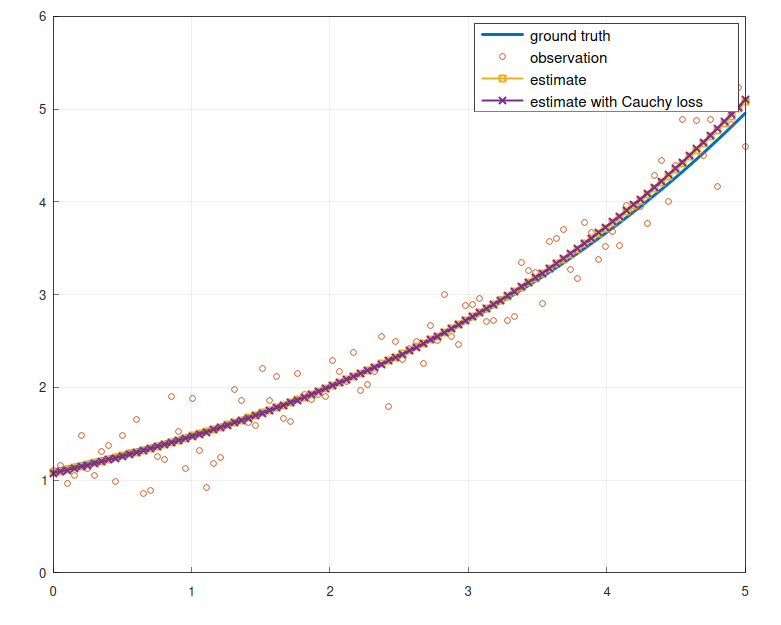
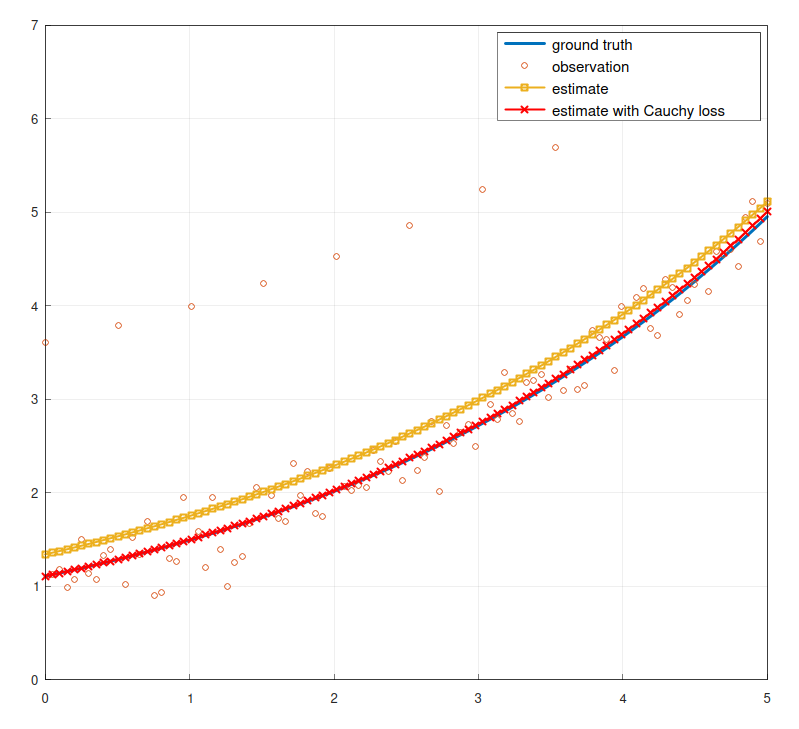
adding outliers to ceres observation

diff --git a/NonLinearOpt/Ceres/ceres_curve_fitting.cpp b/NonLinearOpt/Ceres/ceres_curve_fitting.cpp
@@ -64,9 +64,14 @@ private:
 
 // The real function we're trying to approximate
 void evaluateObservation(const double &x, double &gt_sample,
-                         double &observation_sample) {
+                         double &observation_sample, const int &idx) {
   static cv::RNG rand_gen; // random number generator
-  double noise = rand_gen.gaussian(W_SIGMA * W_SIGMA);
+  double noise;
+  if (idx % 10 == 0) {
+    noise = 2.5; // to create some outliers
+  } else {
+    noise = rand_gen.gaussian(W_SIGMA * W_SIGMA);
+  }
   gt_sample = cv::exp(M * x + C);
   observation_sample = gt_sample + noise;
 }
@@ -95,7 +100,7 @@ int main() {
   for (double x = SAMPLE_INTERVAL.first; x <= SAMPLE_INTERVAL.second;
        x += SAMPLE_SPACING) {
     x_gt.at(idx) = x;
-    evaluateObservation(x, y_gt.at(idx), y_obs.at(idx));
+    evaluateObservation(x, y_gt.at(idx), y_obs.at(idx), idx);
 
     idx++;
   }
@@ -154,7 +159,7 @@ int main() {
   matplot::hold(matplot::on);
   matplot::plot(x_gt, y_obs, "o")->line_width(2).display_name("observation");
   matplot::plot(x_gt, y_est, "-s")->line_width(2).display_name("estimate");
-  matplot::plot(x_gt, y_est_with_loss, "-x")
+  matplot::plot(x_gt, y_est_with_loss, "-rx")
       ->line_width(2)
       .display_name("estimate with Cauchy loss");
   matplot::legend();

diff --git a/NonLinearOpt/Ceres/Readme.md b/NonLinearOpt/Ceres/Readme.md
@@ -18,5 +18,6 @@ For each observation (sample) point, the user creates a new instance of the resi
 
 ## Example
 In the example below, we are trying to estimate the parameters of a ground truth function`y = exp(mx+c)` which is observed under some Gaussian noise.
+In one of the solvers, we're utilizing the Cauchy loss function in order to reduce the effect of outlier samples.
 
 <img src="https://raw.githubusercontent.com/goksanisil23/lazy_minimal_robotics/main/NonLinearOpt/Ceres/resources/ceres.png" width=50% height=50%>

diff --git a/README.md b/README.md
@@ -4,7 +4,8 @@ Minimal implementations for personally interesting ideas &amp; algorithms that c
 
 ### TODO
 
-- [x] [Gauss-Newton](/NonLinearOpt/GaussNewton)
+- [x] [Gauss-Newton curve fitting](/NonLinearOpt/GaussNewton)
+- [x] [Ceres curve fitting](/NonLinearOpt/Ceres)
 - [x] [Kalman Filter](/KalmanFilter)
 - [x] [Extended Kalman Filter](/ExtendedKalmanFilter)
 - [x] [Unscented Kalman Filter](/UnscentedKalmanFilter)
